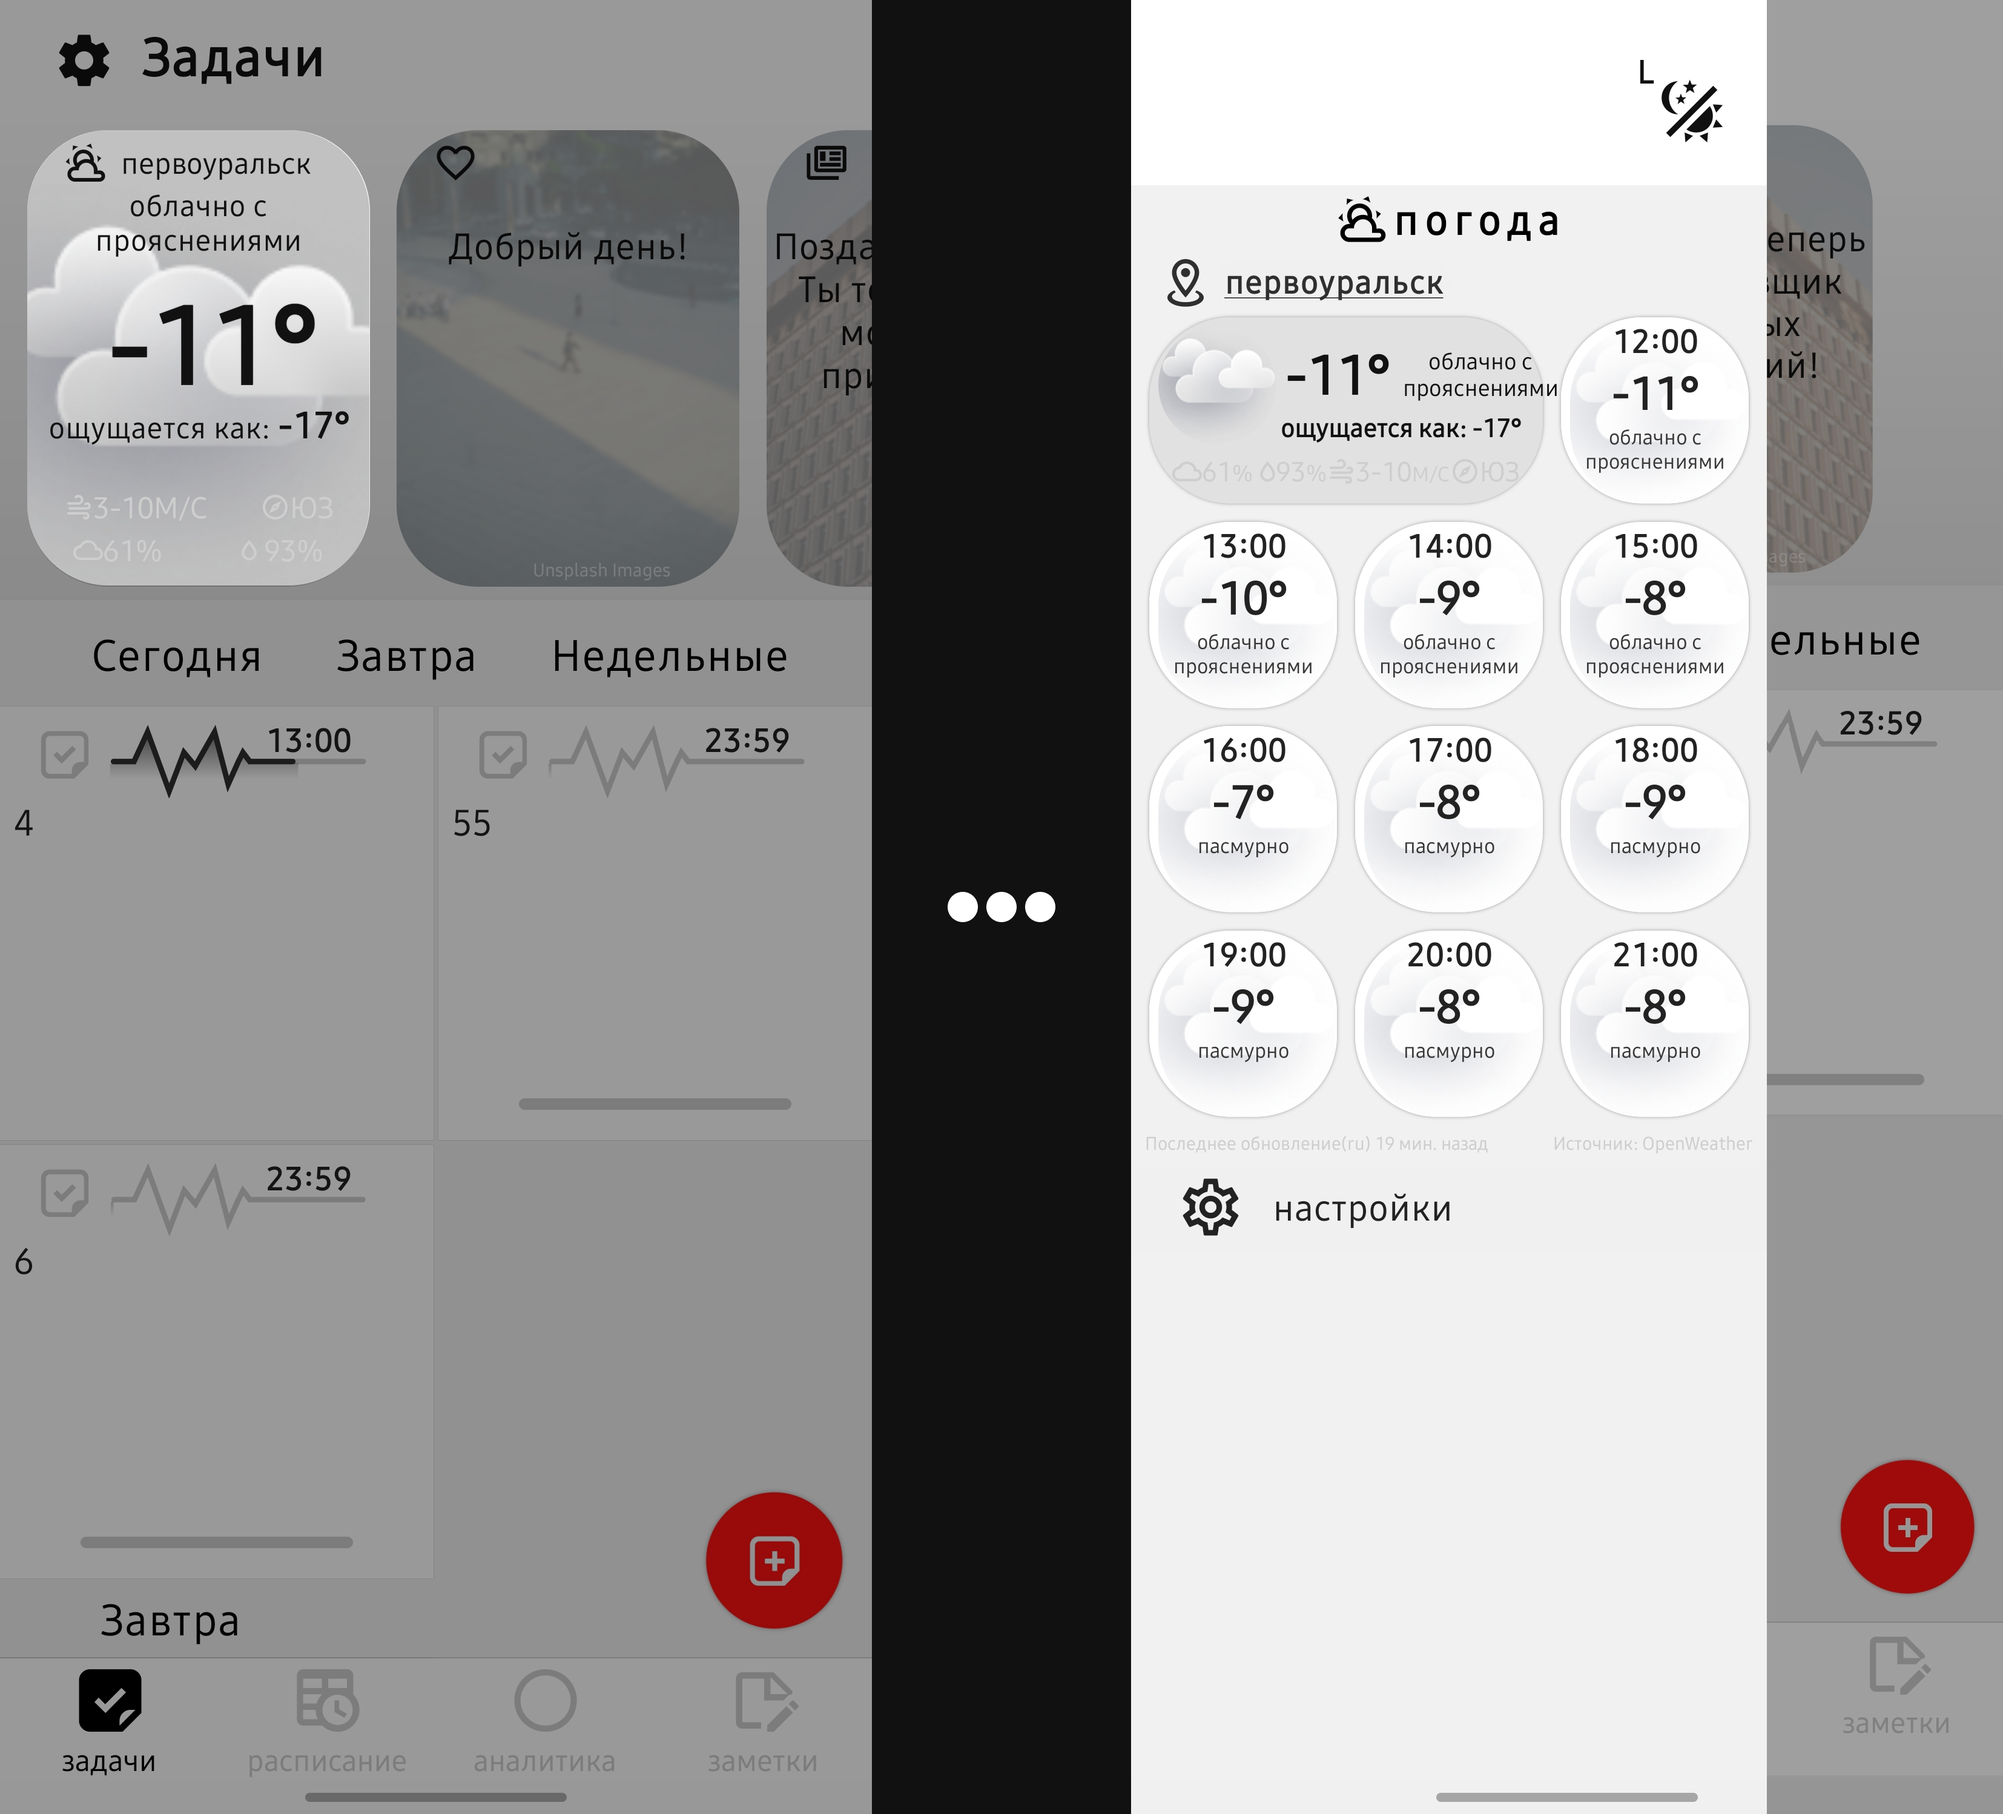
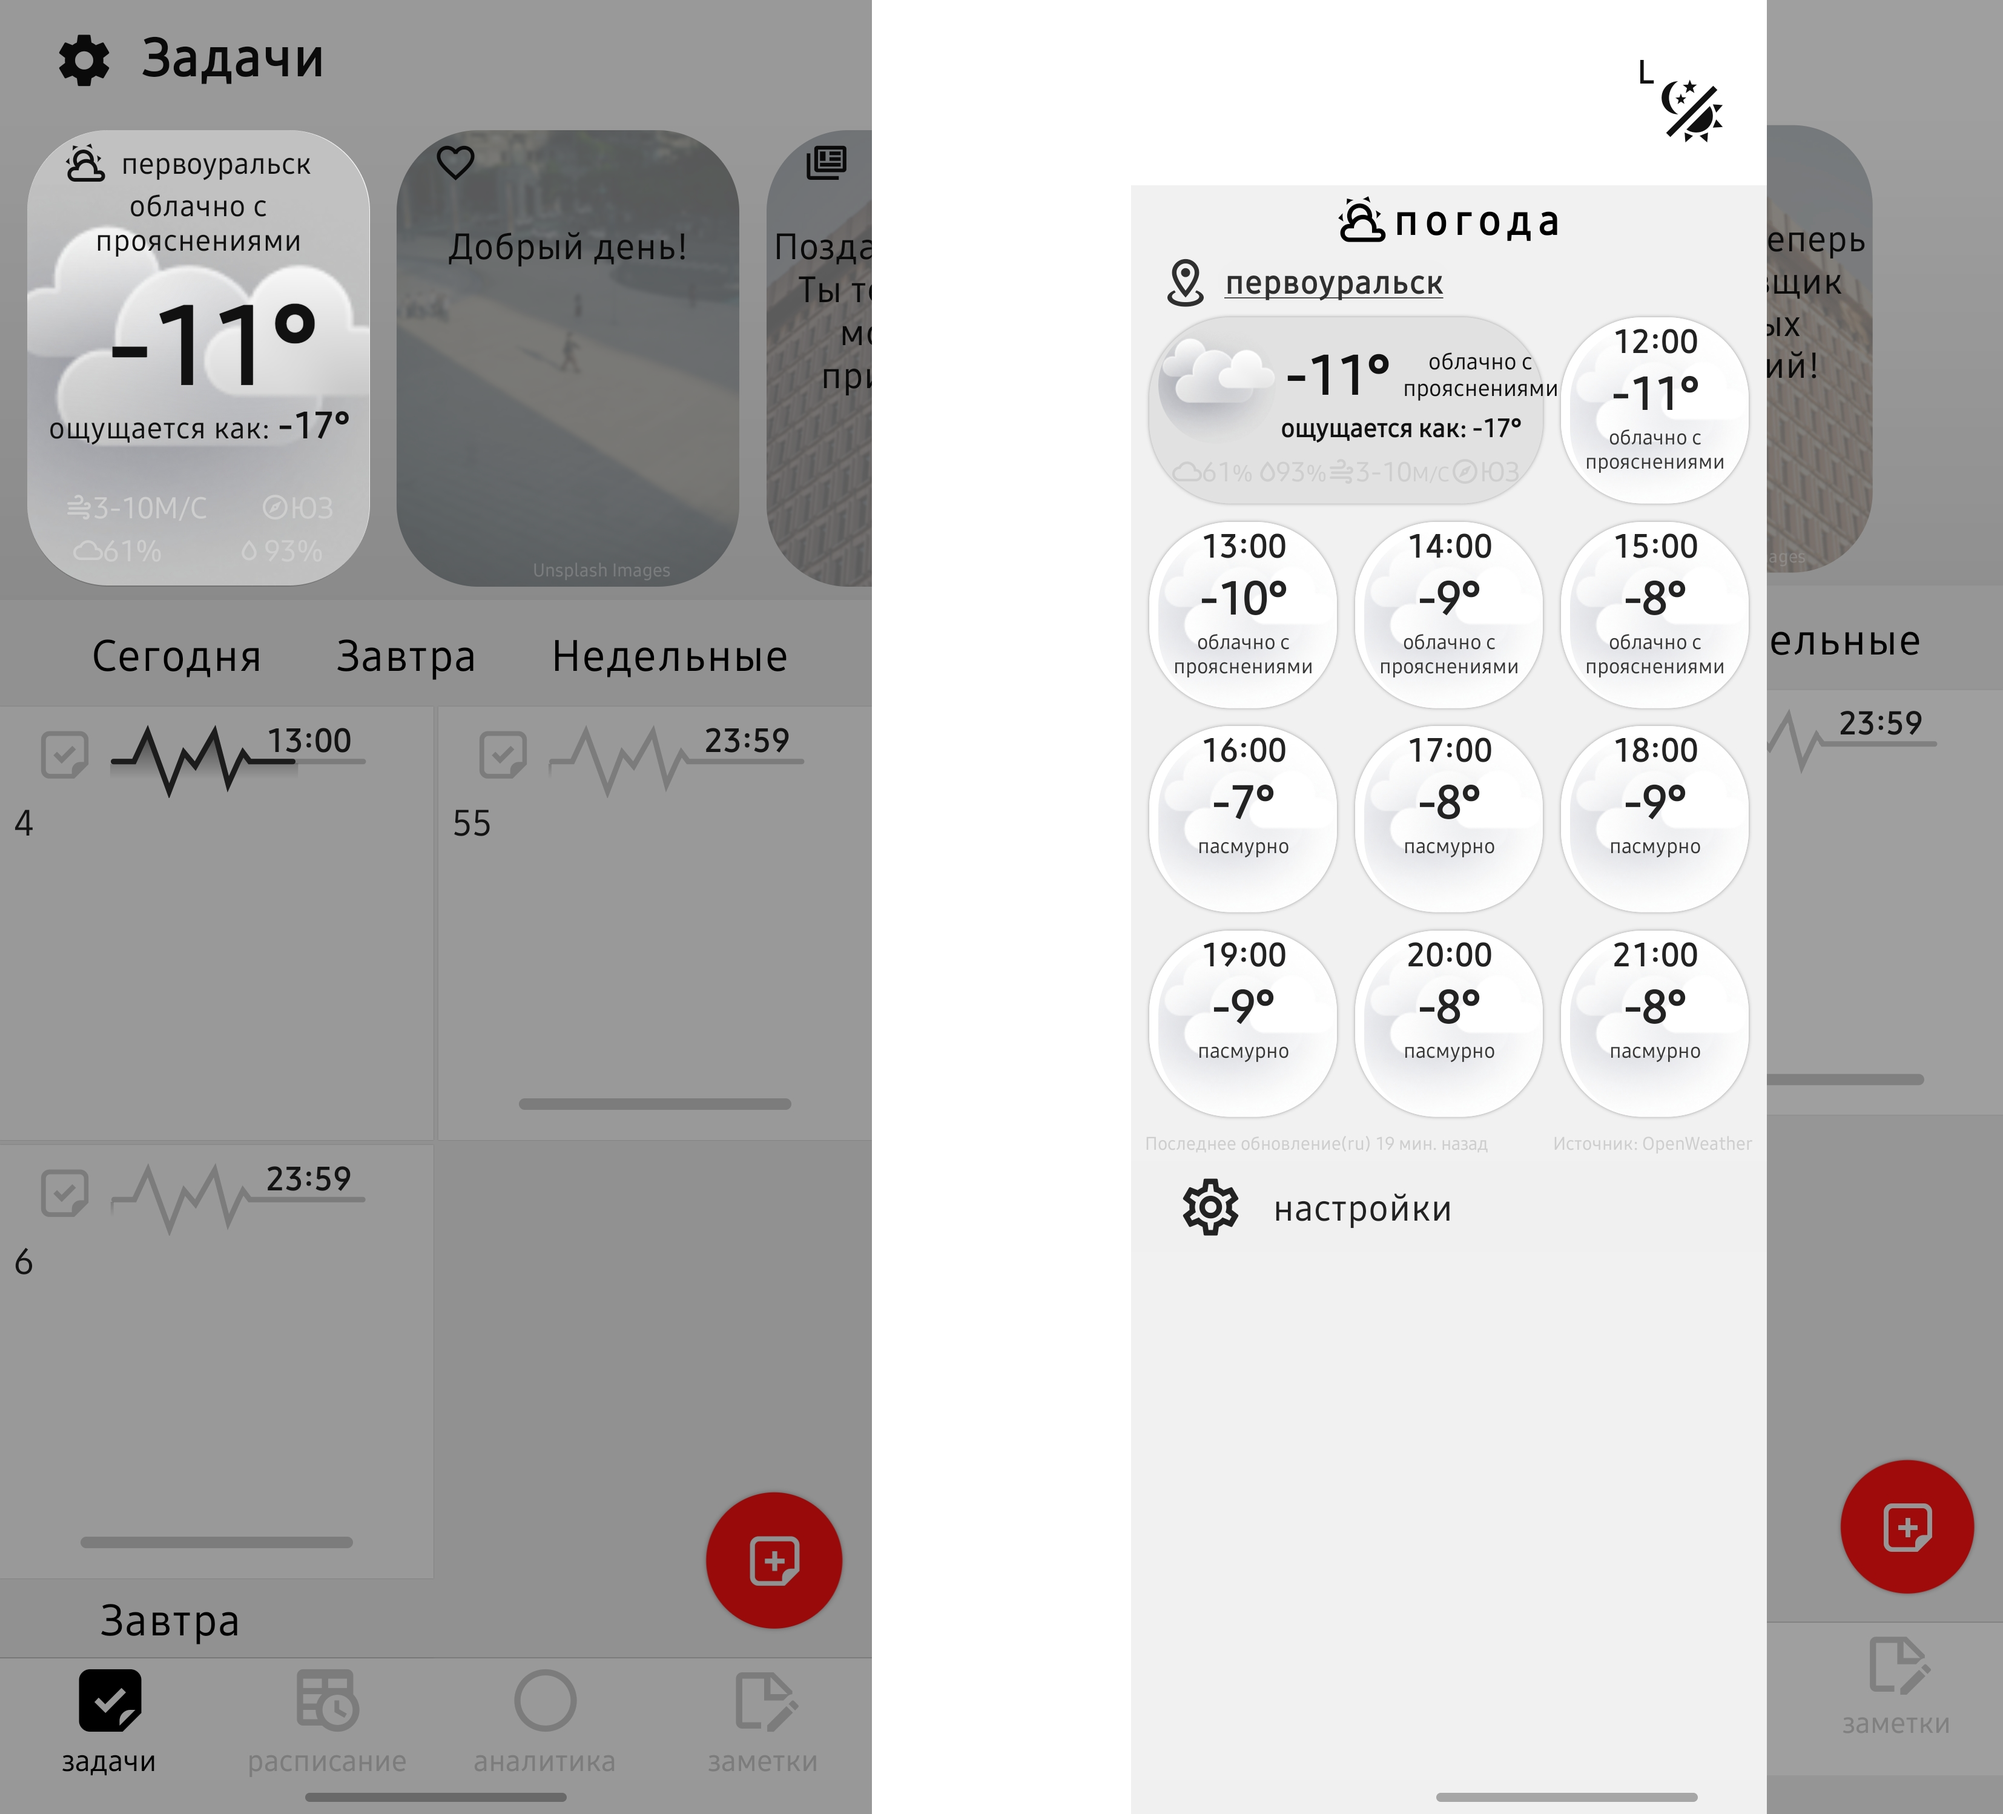
fix: текст в разделах и кадры

Changed region(s): [[0.4359, 0.0, 0.5916, 1.0]]

diff --git a/src/home-page/carousel.css b/src/home-page/carousel.css
@@ -1,7 +1,7 @@
 .carousel {
     position: relative;
     width: 28vmin;
-    height: 62vmin;
+    height: 58vmin;
     margin: auto;
     overflow: hidden;
     border-radius: 1rem;
@@ -9,11 +9,48 @@
 
 .s-carousel {
     position: relative;
-    width: 80vmin;
-    height: 62Vmin;
+    width: 63vmin;
+    height: 60vmin;
     margin: auto;
     overflow: hidden;
     border-radius: 1rem;
+    background-color: #888;
+    padding-bottom: 1.7vmin;
+}
+
+.run-dots {
+    position: absolute;
+    top: 50%;
+    left: calc(50% - 3vmin);
+    gap: 0.25vmin;
+    display: none;
+}
+@keyframes fading {
+    0%, 100% {
+        opacity: 0;
+    }
+    50% {
+        opacity: 1;
+    }
+}
+.dot {
+    display: inline-block;
+    height: 0;
+    width: 0;
+    border-top: 1vmin solid transparent;
+    border-left: 1.5vmin solid white;
+    border-bottom: 1vmin solid transparent;
+    border-radius: 20%;
+}
+
+.run-dots div:nth-child(1){
+    animation: fading 2s infinite;
+}
+.run-dots div:nth-child(2){
+    animation: fading 2s infinite 0.3s;
+}
+.run-dots div:nth-child(3){
+    animation: fading 2s infinite 0.6s;
 }
 
 .carousel-inner {
@@ -40,7 +77,7 @@
     transition: ease 1s;
     display: flex;
     gap: 1vmin;
-    justify-content:  center;
+    justify-content: center;
 }
 
 .indicator-area {
@@ -61,13 +98,17 @@
 }
 
 @media screen and (max-width: 930px) {
+    /**/
     .carousel {
         width: 40vmin;
-        height: 89vmin;
+        height: 83vmin;
     }
     .s-carousel {
-        width: 84vmin;
-        height: 88vmin;
+        width: 91vmin;
+        height: 83vmin;
+    }
+    .s-carousel {
+        padding-bottom: 2.4vmin;
     }
     .carousel-indicators {
         height: 2.4vmin;
@@ -79,6 +120,9 @@
 }
 
 @media screen and (max-width: 780px) {
+    .s-carousel {
+        padding-bottom: 3.2vmin;
+    }
     .carousel-indicators {
         height: 3.2vmin;
         transform: translateY(3.2vmin);
@@ -86,13 +130,12 @@
     .indicator {
         height: 27%;
     }
-    .s-carousel {
-        width: 80vmin;
-        height: 62Vmin;
-    }
 }
 
 @media screen and (max-width: 630px) {
+    .s-carousel {
+        padding-bottom: 4vmin;
+    }
     .carousel-indicators {
         height: 4vmin;
         transform: translateY(4vmin);
@@ -443,6 +486,38 @@ input[name="slide"] {
     opacity: 0;
     pointer-events: none;
 }
+
+
+#slide-5-1:checked ~ .run-dots, 
+#slide-5-2:checked ~ .run-dots,   
+
+#slide-4-1:checked ~ .run-dots,  
+#slide-4-2:checked ~ .run-dots,  
+#slide-4-3:checked ~ .run-dots, 
+#slide-4-4:checked ~ .run-dots,  
+#slide-4-5:checked ~ .run-dots,   
+#slide-4-6:checked ~ .run-dots, 
+#slide-4-7:checked ~ .run-dots,  
+#slide-4-8:checked ~ .run-dots,   
+
+#slide-3-1:checked ~ .run-dots,  
+#slide-3-2:checked ~ .run-dots,   
+#slide-3-3:checked ~ .run-dots, 
+
+#slide-2-1:checked ~ .run-dots,  
+#slide-2-2:checked ~ .run-dots,   
+
+#slide-1-1:checked ~ .run-dots,  
+#slide-1-2:checked ~ .run-dots,   
+#slide-1-3:checked ~ .run-dots, 
+#slide-1-4:checked ~ .run-dots, 
+
+#slide-0-1:checked ~ .run-dots, 
+#slide-0-2:checked ~ .run-dots {
+    display: block;
+}
+
+
 
 #slide-5-1:checked ~ .carousel-indicators, 
 #slide-5-2:checked ~ .carousel-indicators,  

diff --git a/src/home-page/styles.css b/src/home-page/styles.css
@@ -22,6 +22,8 @@ footer p {
     font-family: 'Exo 2', sans-serif;
 }
 
+
+
 .primary-part-container {
     display: grid;
     grid-template-columns: 1fr 1fr;
@@ -61,14 +63,7 @@ footer p {
     padding: 0 2rem ;
 }
 
-@media screen and (max-width: 768px) {
-    .column-left h1 {
-        font-size: 2.1rem;
-    }
-    .column-left p {
-        font-size: 1.1rem;
-    }
-}
+
 
 
 .part-description {
@@ -96,34 +91,23 @@ footer p {
     font-family: 'Montserrat Alternates', sans-serif;
 }
 
-@media screen and (max-width: 768px) {
-    .part-description h1 {
-        font-size: 1.5rem;
-    }
-    .part-description p {
-        font-size: 1.15rem;
-    }
-    .add-description p {
-        font-size: 0.9rem;
-    }
-}
+
 
 
 .column {
     display: flex;
     align-items: center;
     justify-content: space-between;
-    
-    margin-top: 1.5rem;
     padding: 1vw;
     padding-bottom: 2vw;
-    border-radius: 1rem;
+    gap: 1rem;
 }
 .text-in-column {
-    max-width: 35%;
+    max-width: 32%;
+    flex: content;
 }
 .t-column-text {
-    max-width: 50%;
+    flex: content;
 }
 
 .column-l {
@@ -143,17 +127,14 @@ footer p {
 
 .column h2 {
     font-size: 1.4rem;
-    align-self: start;
     margin: 0.5rem 1rem;
     font-family: 'Montserrat Alternates', sans-serif;
     color: white
 }
 .column p {
     font-size: 1rem;
-    align-self: start;
     margin: 0.5rem 1rem;
     font-family: 'Montserrat Alternates', sans-serif;
-    max-width: 50vw;
     color: white;
     margin-bottom: 2rem;
 }
@@ -171,14 +152,6 @@ footer p {
     gap: 2vw;
     padding: 2vw;
 }
-.secondary-image {
-    width: 28vmin;
-    height: 56vmin;
-    background-color: bisque;
-    border-radius: 1rem;
-}
-
-
 
 .tertiary-part {
     display: flex;
@@ -194,37 +167,54 @@ footer p {
 
 
 @media screen and (max-width: 930px) {
-    .secondary-part-container {
-      grid-template-columns: 1fr;
-    }
     .tertiary-part-container {
         grid-template-columns: 1fr;
     }
+
     .column {
         padding-bottom: 1vw;
     }
-    .text-in-column {
-        max-width: 70%;
-    }
-    
     .column-r {
-        flex-direction: row;
+        flex-direction: row;  
     }
     .column-l {
         flex-direction: row-reverse;
     }
+    .text-in-column {
+        max-width: none;
+    }
+    .t-column-text {
+        max-width: 50%;
+    }
     .s-column-l {
         flex-direction: column;
         align-items: flex-start;
-        padding: 0 1rem;
+        
     }
     .s-column-r {
         flex-direction: column;
         align-items: flex-start;
-        padding: 0 1rem;
     }
 }
-
+@media screen and (max-width: 768px) {
+    .column-left h1 {
+        font-size: 2.1rem;
+    }
+    .column-left p {
+        font-size: 1.1rem;
+    }
+}
+@media screen and (max-width: 768px) {
+    .part-description h1 {
+        font-size: 1.5rem;
+    }
+    .part-description p {
+        font-size: 1.15rem;
+    }
+    .add-description p {
+        font-size: 0.9rem;
+    }
+}
 @media screen and (max-width: 460px) {
 
     .column-left h1 {

diff --git a/index.html b/index.html
@@ -97,6 +97,12 @@
                     <input type="radio" name="slide" id="slide-0-1" checked>
                     <input type="radio" name="slide" id="slide-0-2">
 
+                    <div class="run-dots">
+                        <div class="dot"></div>
+                        <div class="dot"></div>
+                        <div class="dot"></div>
+                    </div>
+
                     <div class="carousel-inner">
                         <img src="./src/img/secondary-obj/cr-1/sc1_01.png" class="slide">
                         <img src="./src/img/secondary-obj/cr-1/sc1_02.png" class="slide">
@@ -129,6 +135,12 @@
                     <input type="radio" name="slide" id="slide-1-2">
                     <input type="radio" name="slide" id="slide-1-3">
                     <input type="radio" name="slide" id="slide-1-4">
+
+                    <div class="run-dots">
+                        <div class="dot"></div>
+                        <div class="dot"></div>
+                        <div class="dot"></div>
+                    </div>
                     
                     <div class="carousel-inner" >
                         <img src="./src/img/secondary-obj/cr-2/sc2_01.png" class="slide">
@@ -166,6 +178,12 @@
                 <div class="s-carousel" id="carousel2">
                     <input type="radio" name="slide" id="slide-2-1">
                     <input type="radio" name="slide" id="slide-2-2">
+
+                    <div class="run-dots">
+                        <div class="dot"></div>
+                        <div class="dot"></div>
+                        <div class="dot"></div>
+                    </div>
 
                     <div class="carousel-inner">
                         <img src="./src/img/secondary-obj/cr-3/sc3_01.png" class="slide">

diff --git a/load-page.html b/load-page.html
@@ -46,7 +46,7 @@
                 <span></span>         
                 </div>
             </div>
-            <p>* В данной версии мобильного приложения для демонстрации реализован минимальный функционал(1 экран), не проходивший фикс багов</p>
+            <p>* В данной версии мобильного приложения для демонстрации реализован минимальный функционал (1 экран), не проходивший фикс багов</p>
         </div>
     </section>
 
